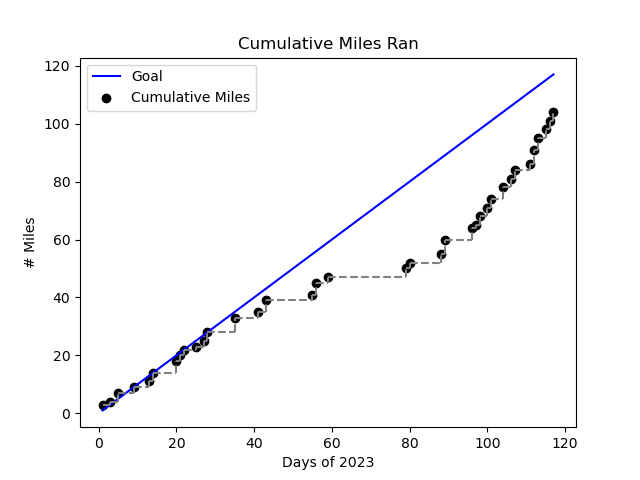
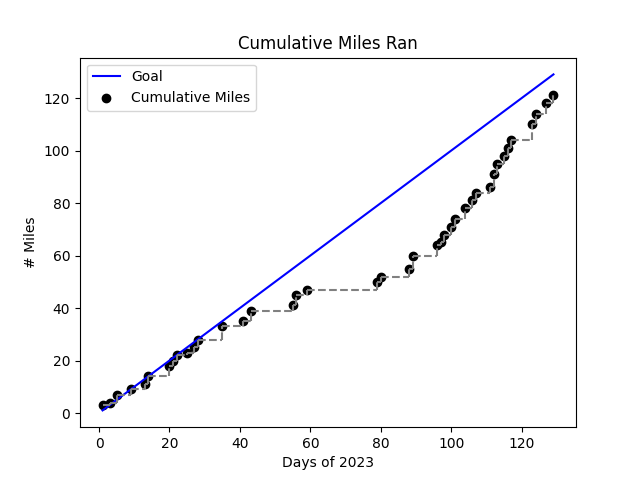
change some plots

diff --git a/progress.py b/progress.py
@@ -77,7 +77,7 @@ if plot_difference:
             color='orange'
         elif diff[i] > 0:
             color='gold'
-        plt.plot((days[i],days[i]), (0,diff[i]), linestyle='dashed',color=color)
+        plt.plot((days[i],days[i]), (0,diff[i]), color=color)
     plt.scatter(days, diff, color='k', label='Runs')
     plt.axhline(0, color='b', label='Goal')
     plt.xlabel('Days of 2023')
@@ -107,7 +107,29 @@ def colorcode_pacing(day, pace):
     plt.axhline(9,  color='gray', alpha=0.01)
     plt.axhline(10, color='gray', alpha=0.01)
     plt.axhline(11, color='gray', alpha=0.01)
-    plt.plot((day,day), (0,pace), linestyle='dashed',color=color, alpha=0.75)
+    plt.plot((day,day), (0,pace), color=color, alpha=0.75)
+    plt.scatter(day, pace, color=color, alpha=0.75)
+    return color
+
+def pacing_lines():
+    for i in range(7, 12):
+        plt.axhline(i,  color='gray', alpha=0.3)
+
+
+
+def colormap(pace):
+    # range from (1,0,0) to (0,1,0)
+    # max: 12 min: 6
+    # 6 -> 0 -> (0,0,1) (blue)
+    # 12 -> 1 -> (1,0,0) (red)
+    scaled = (np.array(pace) - 6)/6
+    # print(scaled)
+    red = scaled
+    blue = 1 - red
+    return [(red[i], 0, blue[i]) for i in range(len(scaled))]
+
+
+
 
 plot_pacing = True
 avg_pace = []
@@ -125,20 +147,24 @@ if plot_pacing:
         # print(f"Day {days[i]}: {avg_pace[i]} {mins}:{secs}")
 
 
-    for i in range(len(avg_pace_mins)):
-        colorcode_pacing(days[i], avg_pace_mins[i])
-    plt.scatter(days, avg_pace_mins, color='k')
-    plt.ylim(bottom=7.5)
+    # for i in range(len(avg_pace_mins)):
+    #     c = colorcode_pacing(days[i], avg_pace_mins[i])
+    # plt.scatter(days, avg_pace_mins, color='k')
+    pacing_lines()
+    plt.bar(days, avg_pace_mins, color=colormap(avg_pace_mins))
+    plt.ylim(bottom=6.0)
     plt.xlabel('Days of 2023')
     plt.ylabel('Avg Pace (mins/mile)')
     plt.title("Average Pacing")
     plt.savefig("average-pacing")
     plt.close()
 
-    for i in range(len(fastest_pace_mins)):
-        colorcode_pacing(days[i], fastest_pace_mins[i])
-    plt.scatter(days, fastest_pace_mins, color='k')
-    plt.ylim(bottom=7.5)
+    # for i in range(len(fastest_pace_mins)):
+    #     c = colorcode_pacing(days[i], fastest_pace_mins[i])
+    # plt.scatter(days, fastest_pace_mins, c=fastest_pace_mins, cmap='rainbow')
+    pacing_lines()
+    plt.bar(days, fastest_pace_mins, color=colormap(fastest_pace_mins))
+    plt.ylim(bottom=6.0)
     plt.xlabel('Days of 2023')
     plt.ylabel('Fastest Mile (mins/mile)')
     plt.title("Fastest Mile Pace")
